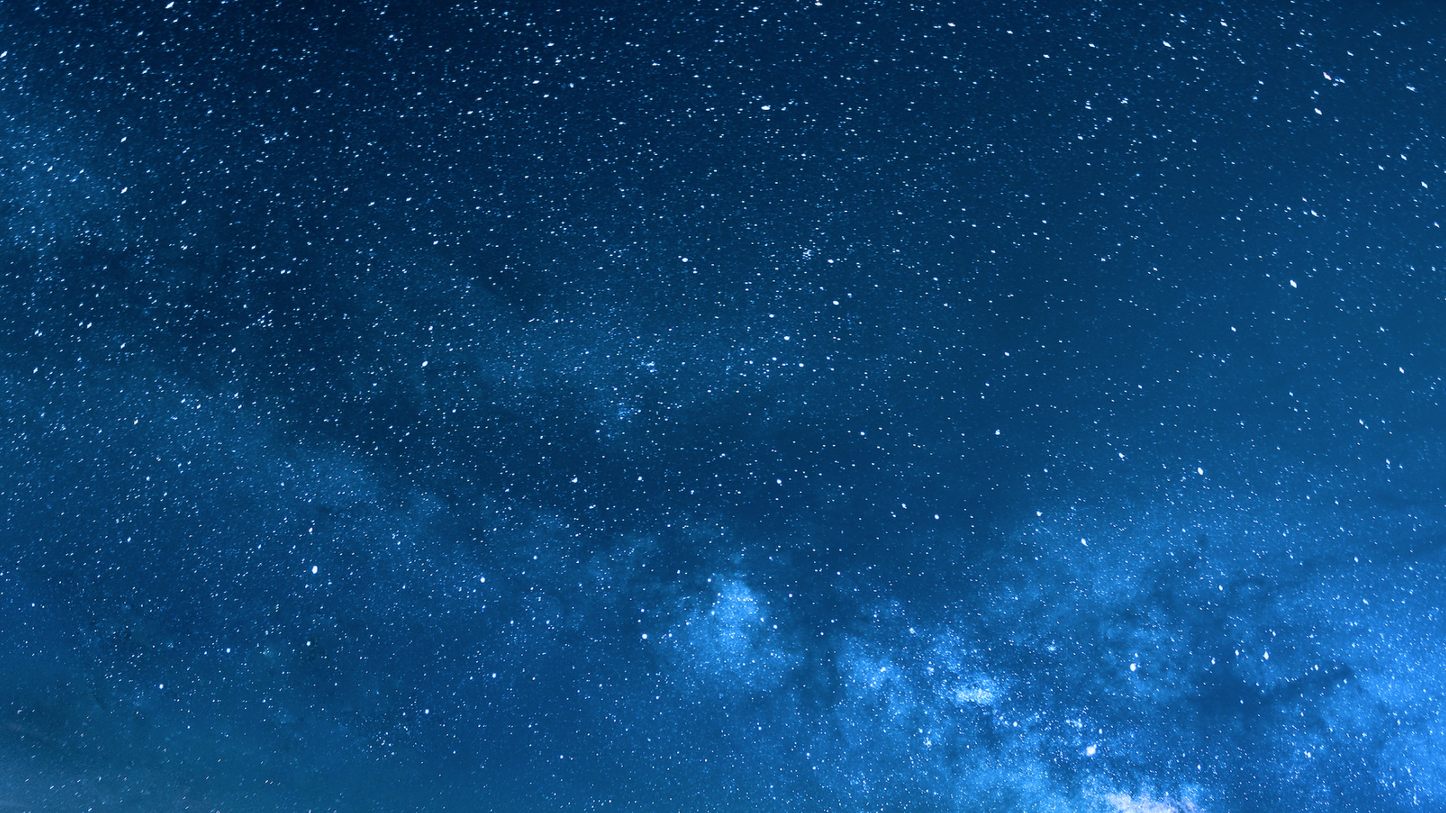
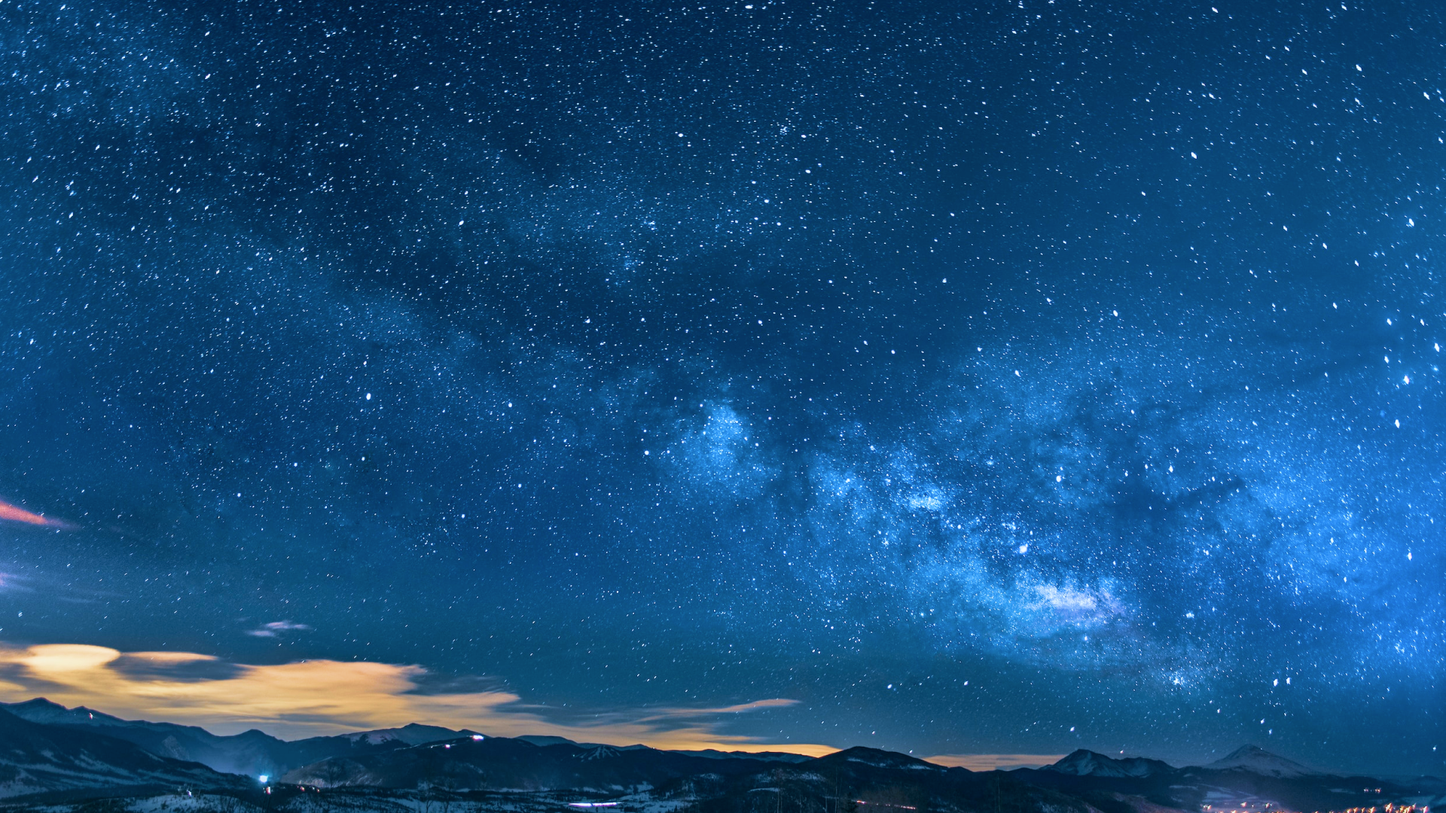
11.10

diff --git a/css/index.css b/css/index.css
@@ -5,6 +5,75 @@
     font-style: normal;
 }
 
+main{
+    /* padding: 0 32px; */
+    padding-top: 100vh;
+}
+
+#title{
+    background-image: url(../img/star.png);
+    background-position: center;
+    background-size: cover;
+    background-repeat: no-repeat;
+    /* position: relative; */
+    height: 100vh;
+    width: 100%;
+    overflow: hidden;
+    position: fixed;
+    top: 0;
+    left: 0;
+    z-index: -1;
+}
+
 h1{
     font-family: 'Cooper Black', sans-serif;
+    font-size: 160px;
+    color: #f6f6f6;
+    display: flex;
+    align-items: center;
+    justify-content: center;
+    text-align: center;
+    /* position: absolute; */
+    /* left: 20%;
+    top: 60%; */
+    transform: translateY(500px) scale(0.5);
+}
+
+.cloud-one{
+    position: absolute;
+    width: 60%;
+    height: 60%;
+
+}
+
+.cloud-two{
+    position: absolute;
+    width: 60%;
+    height: 60%;
+}
+
+.mountain{
+    /* top: 60%; */
+    position: absolute;
+    width: 100%;
+    /* height: 100%; */
+    transform: scale(1.3);
+    bottom: 0;
+    
+}
+
+.moon-one{
+    position: absolute;
+    width: 330px;
+    height: 330px;
+}
+
+#intro{
+    background-color: #061420;
+    border-radius: 40px 40px 0 0;
+}
+
+.me-img{
+    width: 420px;
+    height: 603px;
 }

diff --git a/index.html b/index.html
@@ -15,24 +15,25 @@
                 DASOM'S
                 <br>PORTFOLIO
             </h1>
+            <figure class="mountain">
+                <img src="img/mountain.png" alt="산">
+            </figure>
+            <figure class="moon-one">
+                <img src="img/moon.png" alt="달">
+            </figure>
             <div class="cloud">
-                <figure>
+                <figure class="cloud-one">
                     <img src="img/pngwing(1).png" alt="구름1">
                 </figure>
-                <figure>
+                <figure class="cloud-two">
                     <img src="img/pngwing.png" alt="구름2">
                 </figure>
             </div>
-            <figure>
-                <img src="img/mountian.png" alt="산">
-            </figure>
-            <figure>
-                <img src="img/moon.png" alt="달">
-            </figure>
+            
         </section>
         <section id="intro">
             <div class="me">
-                <figure>
+                <figure class="me-img">
                     <img src="img/me.jpg" alt="나">
                 </figure>
                 <figure>
